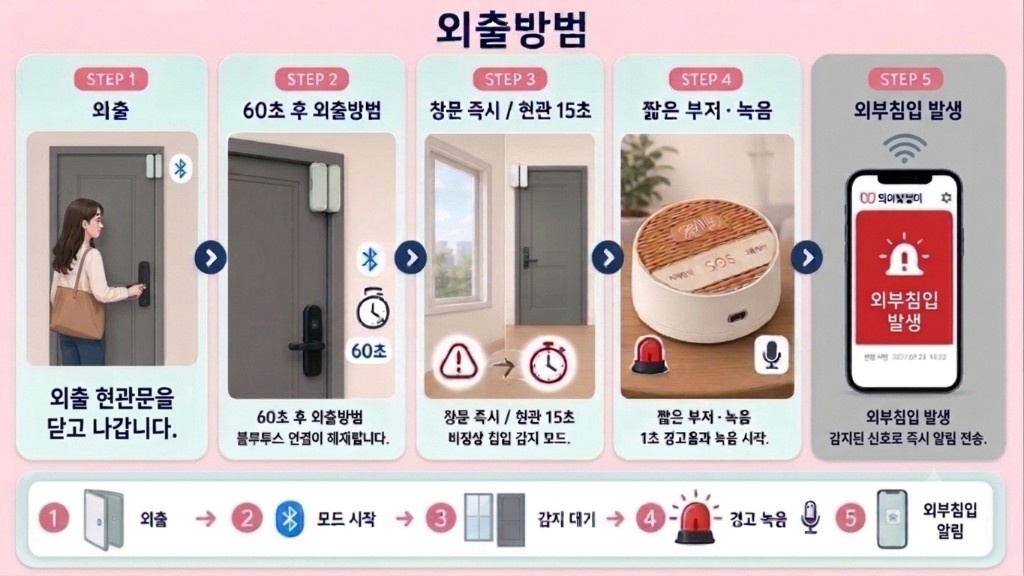
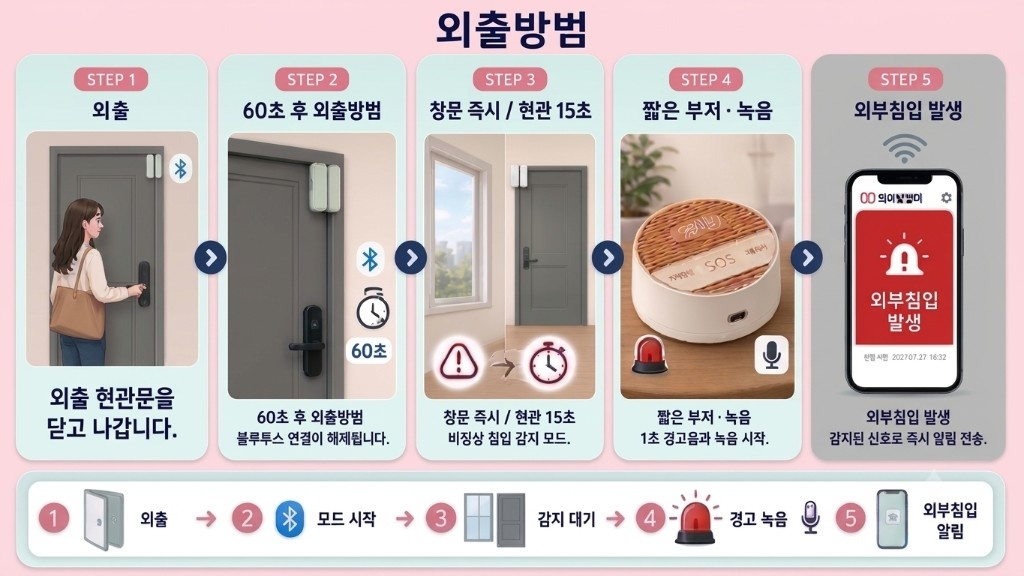
Replace 외출방범 mode flow image again.

diff --git a/products/my-ansimi-manual/index.html b/products/my-ansimi-manual/index.html
@@ -511,7 +511,7 @@
       <p class="sub-lead">무엇을 감시하고, 어떤 때 울리고, 어떻게 알려 주는지가 다릅니다.</p>
       <img class="pic-full" src="images/mode-gate-flow.png?v=20261103redraw" alt="현관문방범 5단계" />
       <img class="pic-full" src="images/mode-home-flow.png?v=20261103redraw" alt="재택방범 5단계" style="margin-top:1rem" />
-      <img class="pic-full" src="images/mode-out-flow.png?v=20261103out2" alt="외출방범 5단계" style="margin-top:1rem" />
+      <img class="pic-full" src="images/mode-out-flow.png?v=20261103out3" alt="외출방범 5단계" style="margin-top:1rem" />
       <img class="pic-full" src="images/mode-compare.png" alt="모드별 동작 비교 · 현관문방범은 현관문만·비명 시 사이렌과 구조 문자, 재택방범은 창문까지·푸시 알람, 외출방범은 열림 즉시 짧은 부저와 푸시" style="margin-top:1rem" />
 
       <article class="step">

diff --git a/products/home-keeper.html b/products/home-keeper.html
@@ -96,7 +96,7 @@
 </div>
 <div class="mode-panel" id="mode-out" role="tabpanel">
 <figure class="use-demo" style="margin:0">
-<img class="use-demo__img" src="my-ansimi-manual/images/mode-out-flow.png?v=20261103out2" alt="외출방범 5단계 — 외출, 60초 전환, 창문·현관 감지, 짧은 부저, 푸시 알림">
+<img class="use-demo__img" src="my-ansimi-manual/images/mode-out-flow.png?v=20261103out3" alt="외출방범 5단계 — 외출, 60초 전환, 창문·현관 감지, 짧은 부저, 푸시 알림">
 <div class="use-demo__cap"><span>외출 전환 → 창문 즉시/현관 15초 → 짧은 부저 → 푸시</span><a href="my-ansimi-manual/images/mode-out-flow.png" target="_blank" rel="noopener">크게 보기</a></div>
 </figure>
 </div>
